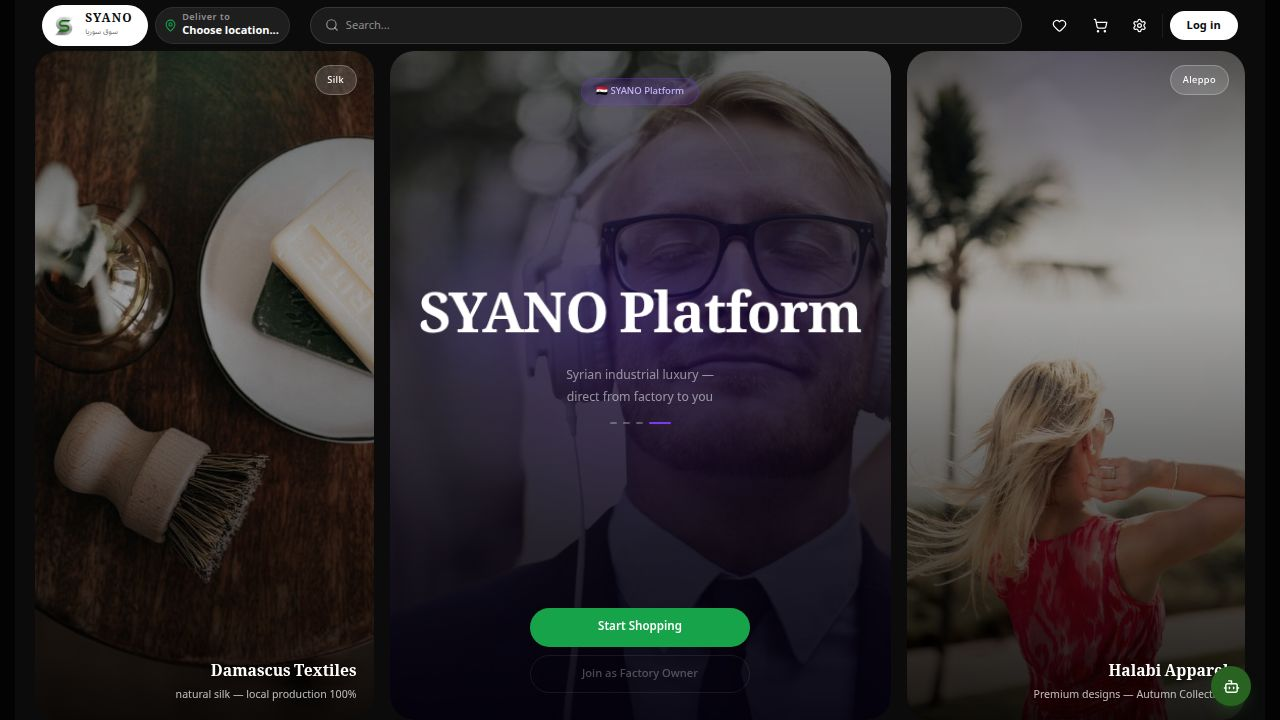
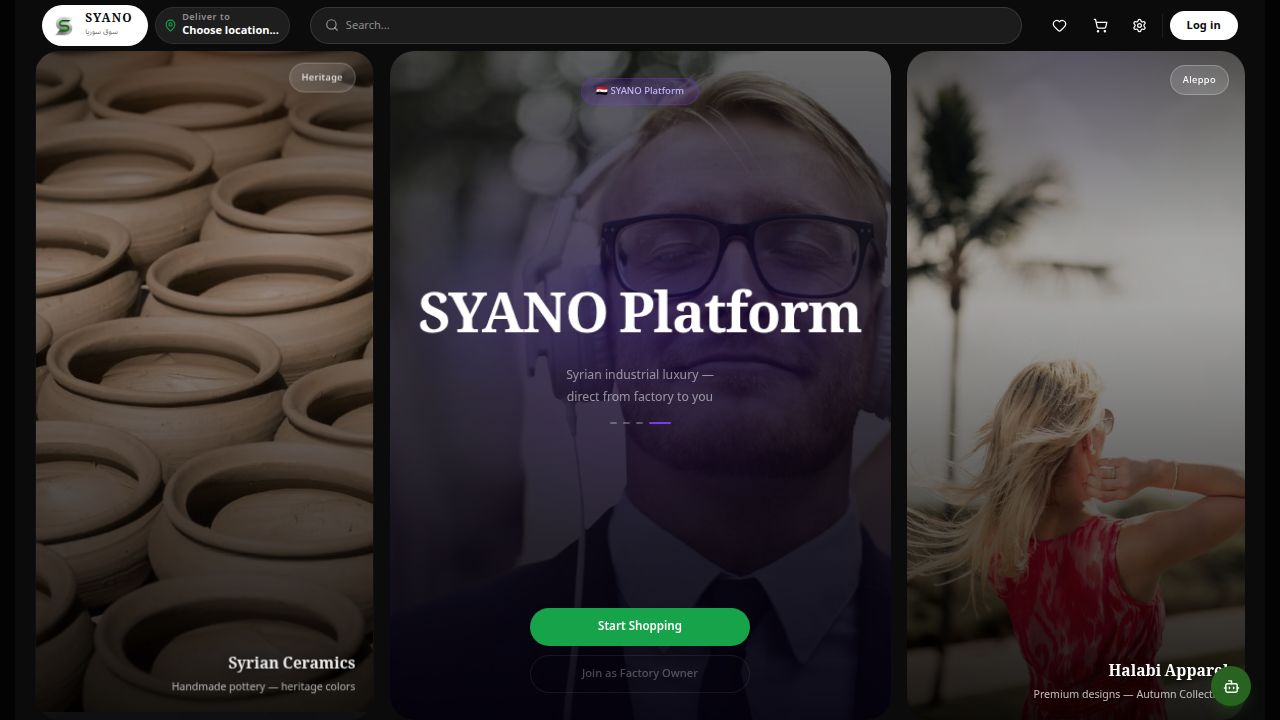
Improve dark mode and responsiveness across admin pages
Update UI elements in courier locations and delivery missions pages to use semantic Tailwind CSS tokens for better dark mode and theme consistency.

Replit-Commit-Author: Agent
Replit-Commit-Session-Id: 73c30caf-754d-44b5-a004-71acac512cbb
Replit-Commit-Checkpoint-Type: full_checkpoint
Replit-Commit-Event-Id: 355bb266-ae42-47af-8bff-512335beeb54
Replit-Commit-Screenshot-Url: https://storage.googleapis.com/screenshot-production-us-central1/0acb7f4f-b2b4-4e3c-8550-d5270468664b/73c30caf-754d-44b5-a004-71acac512cbb/RXQuW57
Replit-Helium-Checkpoint-Created: true

diff --git a/artifacts/marketplace/src/pages/admin/delivery-missions.tsx b/artifacts/marketplace/src/pages/admin/delivery-missions.tsx
@@ -283,7 +283,7 @@ function NearestCouriersPanel({ missionId, token, isRtl }: {
       {enabled && data && (
         <div className="space-y-2">
           {/* Coords note */}
-          <div className="flex items-center gap-1.5 text-[10px] text-gray-500">
+          <div className="flex items-center gap-1.5 text-[10px] text-muted-foreground">
             <MapPin className="w-3 h-3 shrink-0" />
             {data.usingFallbackCoords
               ? (isRtl
@@ -296,7 +296,7 @@ function NearestCouriersPanel({ missionId, token, isRtl }: {
 
           {/* Empty state */}
           {data.couriers.length === 0 && (
-            <div className="flex items-center gap-2 py-3 text-xs text-gray-500 italic">
+            <div className="flex items-center gap-2 py-3 text-xs text-muted-foreground italic">
               <Ban className="w-3.5 h-3.5 text-rose-400" />
               {isRtl
                 ? "لا يوجد مندوبون متاحون الآن (يجب أن يكونوا متصلين وقابلين للتعيين)"
@@ -310,7 +310,7 @@ function NearestCouriersPanel({ missionId, token, isRtl }: {
             return (
               <div
                 key={c.courierId}
-                className="flex items-center gap-3 rounded-lg bg-gray-900/60 border border-gray-800/60 px-3 py-2.5 text-xs flex-wrap"
+                className="flex items-center gap-3 rounded-lg bg-card/60 border border-border/60 px-3 py-2.5 text-xs flex-wrap"
               >
                 {/* Rank */}
                 <span className="w-5 h-5 rounded-full bg-sky-500/20 border border-sky-500/30 flex items-center justify-center text-[10px] font-bold text-sky-300 shrink-0">
@@ -319,10 +319,10 @@ function NearestCouriersPanel({ missionId, token, isRtl }: {
 
                 {/* Name + vehicle */}
                 <div className="flex items-center gap-1.5 min-w-0 flex-1">
-                  <VehicleIcon className="w-3 h-3 text-gray-500 shrink-0" />
-                  <span className="text-gray-200 font-medium truncate">{c.name}</span>
-                  <span className="text-gray-600">·</span>
-                  <span className="text-gray-500 capitalize">{c.vehicleType}</span>
+                  <VehicleIcon className="w-3 h-3 text-muted-foreground shrink-0" />
+                  <span className="text-foreground font-medium truncate">{c.name}</span>
+                  <span className="text-muted-foreground">·</span>
+                  <span className="text-muted-foreground capitalize">{c.vehicleType}</span>
                 </div>
 
                 {/* Status badge */}
@@ -338,7 +338,7 @@ function NearestCouriersPanel({ missionId, token, isRtl }: {
                       {c.distanceKm.toFixed(2)} km
                     </span>
                   ) : (
-                    <span className="text-gray-600 italic">
+                    <span className="text-muted-foreground italic">
                       {isRtl ? "لا توجد إحداثيات" : "No location"}
                     </span>
                   )}
@@ -388,7 +388,7 @@ function MissionOffersPanel({ missionId, token, isRtl, onTrigger }: {
 
   if (isLoading) {
     return (
-      <div className="flex items-center gap-2 px-4 py-3 text-gray-400 text-sm">
+      <div className="flex items-center gap-2 px-4 py-3 text-muted-foreground text-sm">
         <Loader2 className="w-3.5 h-3.5 animate-spin" />
         {isRtl ? "جارٍ تحميل العروض..." : "Loading offers..."}
       </div>
@@ -410,9 +410,9 @@ function MissionOffersPanel({ missionId, token, isRtl, onTrigger }: {
             { label: isRtl ? "منتهية" : "Expired",    val: summary.expired },
             { label: isRtl ? "ملغاة" : "Cancelled",   val: summary.cancelled },
           ].map(({ label, val }) => (
-            <div key={label} className="bg-gray-900/60 rounded-lg px-2 py-1.5 text-center">
-              <p className="text-white font-bold text-base">{val}</p>
-              <p className="text-gray-500 text-[10px] leading-tight">{label}</p>
+            <div key={label} className="bg-card/60 rounded-lg px-2 py-1.5 text-center">
+              <p className="text-foreground font-bold text-base">{val}</p>
+              <p className="text-muted-foreground text-[10px] leading-tight">{label}</p>
             </div>
           ))}
         </div>
@@ -430,7 +430,7 @@ function MissionOffersPanel({ missionId, token, isRtl, onTrigger }: {
         </button>
         <button
           onClick={() => refetch()}
-          className="inline-flex items-center gap-1.5 px-3 py-1.5 rounded-lg text-xs font-medium bg-gray-800 border border-gray-700 text-gray-400 hover:text-gray-300 transition-colors"
+          className="inline-flex items-center gap-1.5 px-3 py-1.5 rounded-lg text-xs font-medium bg-muted border border-border text-muted-foreground hover:text-foreground transition-colors"
         >
           <RefreshCw className="w-3 h-3" />
           {isRtl ? "تحديث" : "Refresh"}
@@ -439,7 +439,7 @@ function MissionOffersPanel({ missionId, token, isRtl, onTrigger }: {
 
       {/* Offer rows */}
       {offers.length === 0 ? (
-        <p className="text-gray-500 text-xs italic py-2">
+        <p className="text-muted-foreground text-xs italic py-2">
           {isRtl ? "لا توجد عروض بعد لهذه المهمة" : "No offers sent for this mission yet"}
         </p>
       ) : (
@@ -447,17 +447,17 @@ function MissionOffersPanel({ missionId, token, isRtl, onTrigger }: {
           {offers.map((o) => {
             const oCfg = OFFER_STATUS_CONFIG[o.status] ?? OFFER_STATUS_CONFIG.EXPIRED;
             return (
-              <div key={o.id} className="flex items-center gap-3 rounded-lg bg-gray-900/50 px-3 py-2 text-xs flex-wrap">
-                <span className="text-gray-500 font-mono w-5 text-center">R{o.round}</span>
+              <div key={o.id} className="flex items-center gap-3 rounded-lg bg-card/50 px-3 py-2 text-xs flex-wrap">
+                <span className="text-muted-foreground font-mono w-5 text-center">R{o.round}</span>
                 <div className="flex items-center gap-1.5 min-w-0">
-                  <Truck className="w-3 h-3 text-gray-500 shrink-0" />
-                  <span className="text-gray-200 truncate max-w-[120px]">{o.courierName ?? `#${o.courierId}`}</span>
+                  <Truck className="w-3 h-3 text-muted-foreground shrink-0" />
+                  <span className="text-foreground truncate max-w-[120px]">{o.courierName ?? `#${o.courierId}`}</span>
                 </div>
                 <span className={cn("px-1.5 py-0.5 rounded font-medium text-[10px]", oCfg.color)}>
                   {isRtl ? oCfg.labelAr : oCfg.label}
                 </span>
                 {o.respondedAt && (
-                  <span className="text-gray-600 text-[10px] ms-auto">
+                  <span className="text-muted-foreground text-[10px] ms-auto">
                     {new Date(o.respondedAt).toLocaleTimeString()}
                   </span>
                 )}
@@ -536,10 +536,10 @@ export default function AdminDeliveryMissions() {
             <ClipboardList className="w-5 h-5 text-primary" />
           </div>
           <div>
-            <h1 className="text-xl font-semibold text-white">
+            <h1 className="text-xl font-semibold text-foreground">
               {isRtl ? "مهام التوصيل" : "Delivery Missions"}
             </h1>
-            <p className="text-sm text-gray-400">
+            <p className="text-sm text-muted-foreground">
               {isRtl ? "سجل مهام التوصيل + مراقبة التعيين" : "Mission log + assignment monitoring"}
             </p>
           </div>
@@ -548,9 +548,9 @@ export default function AdminDeliveryMissions() {
         {/* Filters */}
         <div className="flex flex-col sm:flex-row gap-3">
           <div className="relative flex-1 max-w-xs">
-            <Search className="absolute left-3 top-1/2 -translate-y-1/2 w-4 h-4 text-gray-500" />
+            <Search className="absolute left-3 top-1/2 -translate-y-1/2 w-4 h-4 text-muted-foreground" />
             <Input
-              className="pl-9 bg-gray-900 border-gray-700 text-white placeholder:text-gray-500"
+              className="pl-9 bg-background border-border text-foreground placeholder:text-muted-foreground"
               placeholder={isRtl ? "بحث..." : "Search..."}
               value={search}
               onChange={(e) => setSearch(e.target.value)}
@@ -563,7 +563,7 @@ export default function AdminDeliveryMissions() {
                 "px-3 py-1.5 rounded-lg text-xs font-medium border transition-colors",
                 !statusFilter
                   ? "bg-primary/20 border-primary/40 text-primary"
-                  : "bg-gray-900 border-gray-700 text-gray-400 hover:text-gray-300",
+                  : "bg-muted/50 border-border text-muted-foreground hover:text-foreground",
               )}
             >
               {isRtl ? "الكل" : "All"}
@@ -576,7 +576,7 @@ export default function AdminDeliveryMissions() {
                   "px-3 py-1.5 rounded-lg text-xs font-medium border transition-colors",
                   statusFilter === s
                     ? "bg-primary/20 border-primary/40 text-primary"
-                    : "bg-gray-900 border-gray-700 text-gray-400 hover:text-gray-300",
+                    : "bg-muted/50 border-border text-muted-foreground hover:text-foreground",
                 )}
               >
                 {isRtl ? cfg.labelAr : cfg.label}
@@ -600,14 +600,14 @@ export default function AdminDeliveryMissions() {
                   "rounded-xl border p-2.5 text-center flex flex-col items-center gap-1 transition-all",
                   isActive
                     ? "border-primary/40 bg-primary/10"
-                    : "border-gray-800 bg-gray-900/60 hover:border-gray-700"
+                    : "border-border bg-card/60 hover:border-border/80"
                 )}
               >
                 <StatusIcon className={cn("w-3.5 h-3.5", cfg.color.split(" ")[0])} />
-                <p className={cn("text-base font-bold leading-none", isActive ? "text-primary" : cnt > 0 ? "text-white" : "text-gray-600")}>
+                <p className={cn("text-base font-bold leading-none", isActive ? "text-primary" : cnt > 0 ? "text-foreground" : "text-muted-foreground")}>
                   {cnt}
                 </p>
-                <p className="text-[9px] text-gray-500 leading-tight text-center">
+                <p className="text-[9px] text-muted-foreground leading-tight text-center">
                   {isRtl ? cfg.labelAr : cfg.label}
                 </p>
               </button>
@@ -619,16 +619,16 @@ export default function AdminDeliveryMissions() {
         <DispatchAlertsPanel token={token!} isRtl={isRtl} />
 
         {/* Stats summary */}
-        <div className="text-sm text-gray-400">
+        <div className="text-sm text-muted-foreground">
           {isRtl ? `${total} مهمة` : `${total} mission${total !== 1 ? "s" : ""}`}
         </div>
 
         {/* Table */}
-        <div className="rounded-xl border border-gray-800 overflow-hidden">
+        <div className="rounded-xl border border-border overflow-hidden">
           <div className="overflow-x-auto">
             <table className="w-full text-sm">
-              <thead className="bg-gray-900/80">
-                <tr className="text-gray-400 text-left border-b border-gray-800">
+              <thead className="bg-muted/50">
+                <tr className="text-muted-foreground text-left border-b border-border">
                   <th className="px-4 py-3 font-medium whitespace-nowrap w-8"></th>
                   <th className="px-4 py-3 font-medium whitespace-nowrap">{isRtl ? "المعرّف" : "Mission ID"}</th>
                   <th className="px-4 py-3 font-medium whitespace-nowrap">{isRtl ? "الطلب" : "Order ID"}</th>
@@ -640,17 +640,17 @@ export default function AdminDeliveryMissions() {
                   <th className="px-4 py-3 font-medium whitespace-nowrap">{isRtl ? "تاريخ الإنشاء" : "Created"}</th>
                 </tr>
               </thead>
-              <tbody className="divide-y divide-gray-800">
+              <tbody className="divide-y divide-border">
                 {isLoading && (
                   <tr>
-                    <td colSpan={9} className="px-4 py-10 text-center text-gray-500">
+                    <td colSpan={9} className="px-4 py-10 text-center text-muted-foreground">
                       {isRtl ? "جارٍ التحميل..." : "Loading..."}
                     </td>
                   </tr>
                 )}
                 {!isLoading && filtered.length === 0 && (
                   <tr>
-                    <td colSpan={9} className="px-4 py-10 text-center text-gray-500">
+                    <td colSpan={9} className="px-4 py-10 text-center text-muted-foreground">
                       <ClipboardList className="w-8 h-8 mx-auto mb-2 opacity-30" />
                       <p>{isRtl ? "لا توجد مهام توصيل بعد" : "No delivery missions yet"}</p>
                     </td>
@@ -675,7 +675,7 @@ export default function AdminDeliveryMissions() {
                       <tr
                         key={m.id}
                         className={cn(
-                          "hover:bg-gray-900/40 transition-colors",
+                          "hover:bg-muted/20 transition-colors",
                           isSearching && "bg-sky-900/5",
                           isNoCourier && "bg-rose-900/5",
                         )}
@@ -683,7 +683,7 @@ export default function AdminDeliveryMissions() {
                         <td className="px-3 py-3">
                           <button
                             onClick={() => toggleExpand(m.id)}
-                            className="text-gray-500 hover:text-gray-300 transition-colors"
+                            className="text-muted-foreground hover:text-foreground transition-colors"
                             title={isRtl ? "عرض العروض" : "View offers"}
                           >
                             {isExpanded
@@ -693,24 +693,24 @@ export default function AdminDeliveryMissions() {
                           </button>
                         </td>
                         <td className="px-4 py-3 font-mono text-primary font-medium">#{m.id}</td>
-                        <td className="px-4 py-3 text-gray-300 font-mono">#{m.orderId}</td>
+                        <td className="px-4 py-3 text-foreground/80 font-mono">#{m.orderId}</td>
                         <td className="px-4 py-3">
                           <div className="flex items-center gap-2">
-                            <Store className="w-3.5 h-3.5 text-gray-500 shrink-0" />
-                            <span className="text-gray-200 truncate max-w-[120px]">{m.storeName ?? m.sellerName ?? "—"}</span>
+                            <Store className="w-3.5 h-3.5 text-muted-foreground shrink-0" />
+                            <span className="text-foreground truncate max-w-[120px]">{m.storeName ?? m.sellerName ?? "—"}</span>
                           </div>
                         </td>
                         <td className="px-4 py-3">
                           <div className="flex items-center gap-2">
-                            <User className="w-3.5 h-3.5 text-gray-500 shrink-0" />
-                            <span className="text-gray-200 truncate max-w-[120px]">{m.customerName ?? "—"}</span>
+                            <User className="w-3.5 h-3.5 text-muted-foreground shrink-0" />
+                            <span className="text-foreground truncate max-w-[120px]">{m.customerName ?? "—"}</span>
                           </div>
                         </td>
                         <td className="px-4 py-3">
                           {m.courierName ? (
                             <div className="flex items-center gap-2">
-                              <Truck className="w-3.5 h-3.5 text-gray-500 shrink-0" />
-                              <span className="text-gray-200 truncate max-w-[100px]">{m.courierName}</span>
+                              <Truck className="w-3.5 h-3.5 text-muted-foreground shrink-0" />
+                              <span className="text-foreground truncate max-w-[100px]">{m.courierName}</span>
                             </div>
                           ) : isSearching ? (
                             <div className="flex items-center gap-1.5 text-sky-400">
@@ -718,7 +718,7 @@ export default function AdminDeliveryMissions() {
                               <span className="text-xs">{isRtl ? "جارٍ البحث..." : "Searching..."}</span>
                             </div>
                           ) : (
-                            <span className="text-gray-600 text-xs italic">{isRtl ? "غير معيّن" : "Unassigned"}</span>
+                            <span className="text-muted-foreground text-xs italic">{isRtl ? "غير معيّن" : "Unassigned"}</span>
                           )}
                         </td>
                         <td className="px-4 py-3">
@@ -727,12 +727,12 @@ export default function AdminDeliveryMissions() {
                             {isRtl ? cfg.labelAr : cfg.label}
                           </span>
                         </td>
-                        <td className="px-4 py-3 text-gray-400 text-xs">{isRtl ? sizeLabel.ar : sizeLabel.en}</td>
-                        <td className="px-4 py-3 text-gray-400 text-xs whitespace-nowrap">{createdAt}</td>
+                        <td className="px-4 py-3 text-muted-foreground text-xs">{isRtl ? sizeLabel.ar : sizeLabel.en}</td>
+                        <td className="px-4 py-3 text-muted-foreground text-xs whitespace-nowrap">{createdAt}</td>
                       </tr>
                       {showOfferPanel && (
-                        <tr key={`offers-${m.id}`} className="bg-gray-950/60">
-                          <td colSpan={9} className="border-t border-gray-800/60">
+                        <tr key={`offers-${m.id}`} className="bg-muted/10">
+                          <td colSpan={9} className="border-t border-border/60">
                             <div className="border-s-2 border-primary/30 ms-6">
                               <div className="px-4 pt-3 pb-1">
                                 <div className="flex items-center gap-2 mb-1">
@@ -762,7 +762,7 @@ export default function AdminDeliveryMissions() {
                                 }}
                               />
                               {/* Divider */}
-                              <div className="border-t border-gray-800/60 mx-4" />
+                              <div className="border-t border-border/60 mx-4" />
                               {/* Discovery Engine Test Panel */}
                               <NearestCouriersPanel
                                 missionId={m.id}
@@ -787,15 +787,15 @@ export default function AdminDeliveryMissions() {
             <button
               disabled={page <= 1}
               onClick={() => setPage((p) => p - 1)}
-              className="px-3 py-1.5 rounded-lg text-sm bg-gray-900 border border-gray-700 text-gray-300 disabled:opacity-40 hover:bg-gray-800 transition-colors"
+              className="px-3 py-1.5 rounded-lg text-sm bg-muted border border-border text-foreground disabled:opacity-40 hover:bg-accent transition-colors"
             >
               {isRtl ? "السابق" : "Prev"}
             </button>
-            <span className="text-sm text-gray-400">{page} / {totalPages}</span>
+            <span className="text-sm text-muted-foreground">{page} / {totalPages}</span>
             <button
               disabled={page >= totalPages}
               onClick={() => setPage((p) => p + 1)}
-              className="px-3 py-1.5 rounded-lg text-sm bg-gray-900 border border-gray-700 text-gray-300 disabled:opacity-40 hover:bg-gray-800 transition-colors"
+              className="px-3 py-1.5 rounded-lg text-sm bg-muted border border-border text-foreground disabled:opacity-40 hover:bg-accent transition-colors"
             >
               {isRtl ? "التالي" : "Next"}
             </button>

diff --git a/artifacts/marketplace/src/pages/admin/courier-locations.tsx b/artifacts/marketplace/src/pages/admin/courier-locations.tsx
@@ -46,7 +46,7 @@ interface LiveLocationsResponse {
 
 const AVAIL_CONFIG = {
   ONLINE:  { label: "Online",  labelAr: "متاح",    color: "text-primary bg-primary/80/10 border-primary/30", dot: "bg-primary/80",  icon: Wifi },
-  OFFLINE: { label: "Offline", labelAr: "غير متاح", color: "text-gray-400 bg-gray-400/10 border-gray-500/30",         dot: "bg-gray-500",    icon: WifiOff },
+  OFFLINE: { label: "Offline", labelAr: "غير متاح", color: "text-muted-foreground bg-muted/40 border-border", dot: "bg-muted-foreground", icon: WifiOff },
   BUSY:    { label: "Busy",    labelAr: "مشغول",    color: "text-amber-400 bg-amber-400/10 border-amber-500/30",      dot: "bg-amber-400",   icon: Package },
 } as const;
 
@@ -190,10 +190,10 @@ export default function AdminCourierLocations() {
         {/* ── Summary strip ────────────────────────────────────────────── */}
         {data && (
           <div className="grid grid-cols-2 sm:grid-cols-3 lg:grid-cols-6 gap-3">
-            <SummaryCard label={isRtl ? "إجمالي" : "Total"} value={data.total} color="text-gray-400" icon={MapPin} />
+            <SummaryCard label={isRtl ? "إجمالي" : "Total"} value={data.total} color="text-muted-foreground" icon={MapPin} />
             <SummaryCard label={isRtl ? "متاح" : "Online"} value={data.online} color="text-primary" icon={Wifi} />
             <SummaryCard label={isRtl ? "مشغول" : "Busy"} value={data.busy} color="text-amber-400" icon={Package} />
-            <SummaryCard label={isRtl ? "غير متاح" : "Offline"} value={data.offline} color="text-gray-400" icon={WifiOff} />
+            <SummaryCard label={isRtl ? "غير متاح" : "Offline"} value={data.offline} color="text-muted-foreground" icon={WifiOff} />
             <SummaryCard label={isRtl ? "موقع حديث" : "Fresh GPS"} value={data.withFreshLocation} color="text-primary" icon={CheckCircle2} />
             <SummaryCard label={isRtl ? "بدون موقع" : "No Location"} value={data.withNoLocation} color="text-red-400" icon={AlertTriangle} />
           </div>
@@ -314,7 +314,7 @@ export default function AdminCourierLocations() {
 
                     {/* Freshness */}
                     {c.lat == null ? (
-                      <span className="inline-flex items-center gap-1 px-2 py-0.5 rounded-full bg-gray-500/10 border border-gray-500/20 text-xs text-gray-400">
+                      <span className="inline-flex items-center gap-1 px-2 py-0.5 rounded-full bg-muted/40 border border-border text-xs text-muted-foreground">
                         <AlertTriangle className="w-3 h-3" />
                         {isRtl ? "لا يوجد" : "No GPS"}
                       </span>